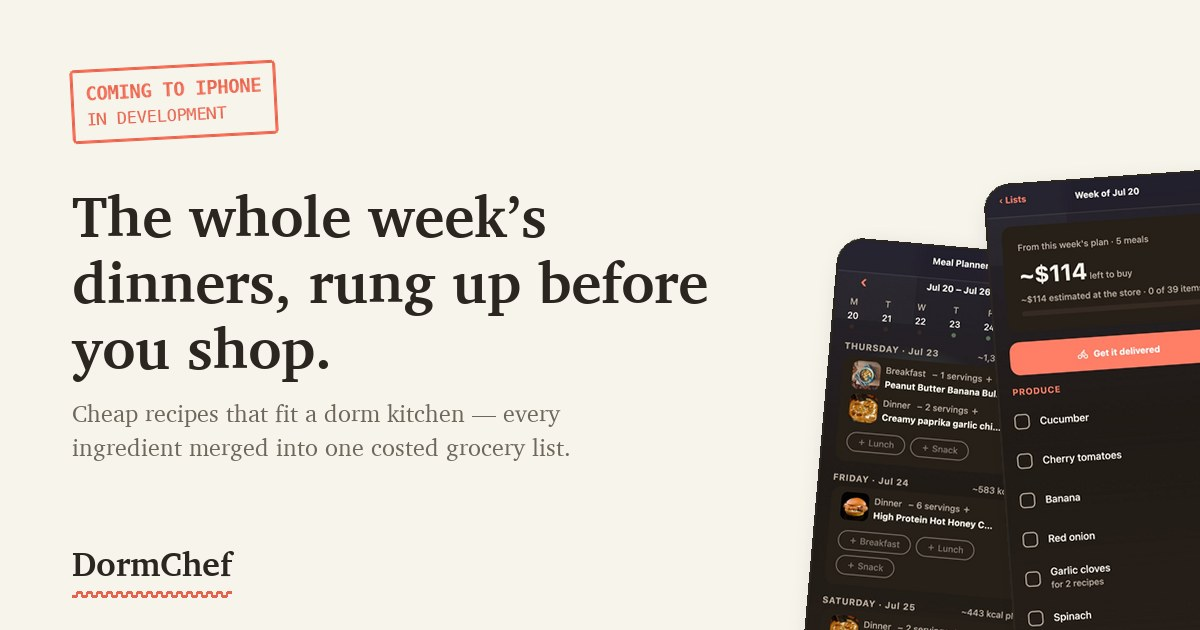
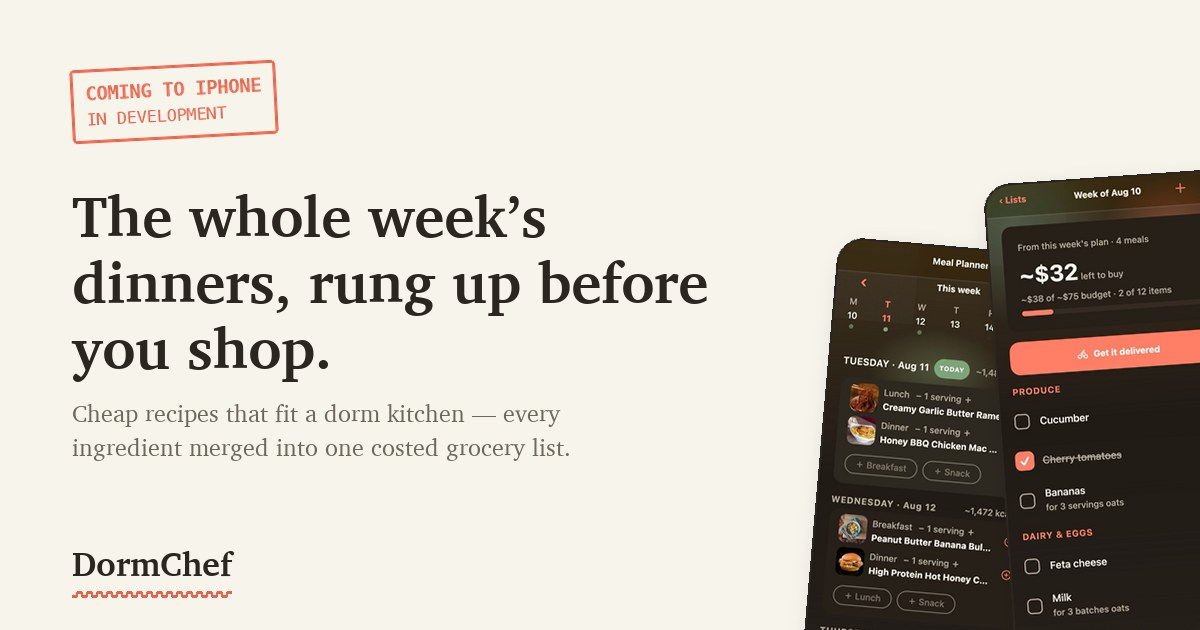
type

Changed region(s): [[0.6783, 0.5127, 0.925, 1.0], [0.6783, 0.2714, 1.0, 0.5127], [0.7092, 0.4825, 0.7708, 0.5127]]

diff --git a/index.html b/index.html
@@ -22,6 +22,60 @@
 
 <link rel="icon" href="favicon.png" />
 <link rel="stylesheet" href="landing.css" />
+
+<!-- Structured data for search + answer engines (HQ-5,
+     docs/base44-audit-2026-08-11.md). Claims mirror the visible page exactly:
+     in development, no dates, no prices — §9 rules apply here too. -->
+<script type="application/ld+json">
+{
+  "@context": "https://schema.org",
+  "@graph": [
+    {
+      "@type": "Organization",
+      "@id": "https://dormchefllc.com/#org",
+      "name": "DormChef LLC",
+      "alternateName": "DormChef",
+      "url": "https://dormchefllc.com/",
+      "logo": "https://dormchefllc.com/favicon.png",
+      "email": "dormchef.app@gmail.com"
+    },
+    {
+      "@type": "WebSite",
+      "@id": "https://dormchefllc.com/#site",
+      "url": "https://dormchefllc.com/",
+      "name": "DormChef",
+      "description": "DormChef is an iPhone app in development for college students: pick cheap, good recipes that fit a dorm kitchen, plan the week, and get one merged, aisle-organized grocery list with an estimated total.",
+      "publisher": { "@id": "https://dormchefllc.com/#org" }
+    },
+    {
+      "@type": "FAQPage",
+      "@id": "https://dormchefllc.com/#faq",
+      "mainEntity": [
+        {
+          "@type": "Question",
+          "name": "What is DormChef?",
+          "acceptedAnswer": { "@type": "Answer", "text": "Cooking usually isn't the hard part — deciding, shopping and paying for it is. DormChef takes that half: pick or import meals you'd actually eat, and it works out what to buy and roughly what it'll cost before you spend anything." }
+        },
+        {
+          "@type": "Question",
+          "name": "Does DormChef work without a real kitchen?",
+          "acceptedAnswer": { "@type": "Answer", "text": "Whatever you've got to cook on. The No-kitchen filter narrows everything to meals a microwave, kettle or rice cooker can handle, so a first-year with one outlet and a housemate with a full stove are both at home here. Vegetarian, vegan, high-protein and under-500-calorie filters run alongside it." }
+        },
+        {
+          "@type": "Question",
+          "name": "How does the grocery list work?",
+          "acceptedAnswer": { "@type": "Answer", "text": "Plan your week and every ingredient is merged across recipes — duplicates combined, grouped by aisle, totalled for the week, estimates marked as estimates. Set a weekly budget and lists aim for it, without ever dropping an ingredient your recipes need." }
+        },
+        {
+          "@type": "Question",
+          "name": "When can I use DormChef?",
+          "acceptedAnswer": { "@type": "Answer", "text": "It's in development. Leave your email at dormchefllc.com and you'll hear as it progresses — the day it ships, you'll know." }
+        }
+      ]
+    }
+  ]
+}
+</script>
 </head>
 <body>
 
@@ -32,22 +86,25 @@
     <a class="brand" href="index.html">DormChef</a>
     <nav class="mast-links" aria-label="Site">
       <a href="#screens">The screens</a>
-      <a href="#updates">Updates</a>
+      <a href="#questions">Questions</a>
+      <a href="#updates">Keep me posted</a>
     </nav>
   </header>
 
   <!-- ================= 1. Hero ================= -->
   <section class="hero">
+   <div class="hero-copy">
     <p class="stamp">
       <span class="stamp-top">Coming to iPhone</span>
       <span class="stamp-sub">in development</span>
     </p>
     <h1>The whole week&rsquo;s dinners, rung up before you shop.</h1>
+    <!-- The lede promises; it no longer explains. The mechanism (merging,
+         aisles, totals) lives once, in the FAQ, and the screens show it. -->
     <p class="lede">
-      DormChef is an iPhone app for college students. Pick cheap, good recipes that fit
-      a dorm kitchen, drop them onto your week, and it merges every ingredient into one
-      grocery list — duplicates combined, grouped for the store, totalled for the week.
-      <a href="#screens">See the real screens below.</a>
+      DormChef is an iPhone app for college students cooking on a microwave, a kettle
+      or a rice cooker. Pick the week&rsquo;s dinners; the shopping sorts itself out
+      before you get to the store. <a href="#screens">See the real screens below.</a>
     </p>
 
     <form class="signup" id="signup-hero" novalidate>
@@ -61,15 +118,26 @@
       <p class="signup-msg" role="status" aria-live="polite"></p>
       <p class="signup-note">Occasional progress updates and word when it&rsquo;s out. Nothing else, ever.</p>
     </form>
+   </div>
+
+    <!-- One real screen, not a mockup: the shot that proves the headline.
+         Dropped below 860px — the filmstrip shows it again a moment later,
+         and the signup matters more than a picture on a phone. -->
+    <figure class="hero-shot">
+      <img src="shots/grocery.jpg" onerror="this.closest('.hero-shot').remove()"
+           alt="A DormChef grocery list for a week of meals: ingredients merged across recipes, grouped by aisle, with an estimated total." />
+      <figcaption>One week of dinners, totalled before the store</figcaption>
+    </figure>
   </section>
 
   <!-- ================= 2. The screens ================= -->
   <section class="section" id="screens">
     <p class="overline">From the app</p>
     <h2>The screens</h2>
+    <!-- The subhead used to enumerate the four screens the captions already
+         name, one line below. The captions won that argument. -->
     <p class="sub">
-      Screenshots of the current build — the same four screens you&rsquo;d use in a week:
-      find a meal, put it on a night, shop the merged list, cook it.
+      The screens you&rsquo;d actually touch in a week.
     </p>
 
     <div class="filmstrip">
@@ -86,33 +154,79 @@
         <figcaption>Plan the nights you&rsquo;ll cook</figcaption>
       </figure>
       <figure class="frame">
-        <img src="shots/grocery.jpg" loading="lazy" onerror="this.closest('.frame').classList.add('missing')"
-             alt="A DormChef grocery list with ingredients merged across meals and grouped for the store." />
-        <div class="index-card" aria-hidden="true"><strong>Grocery</strong><span>the merged, costed list</span></div>
-        <figcaption>Shop from one merged list</figcaption>
-      </figure>
-      <figure class="frame">
         <img src="shots/recipe.jpg" loading="lazy" onerror="this.closest('.frame').classList.add('missing')"
              alt="A DormChef recipe screen showing ingredients, steps, calories and cost per serving." />
         <div class="index-card" aria-hidden="true"><strong>Recipe</strong><span>steps, scaling, macros</span></div>
-        <figcaption>Cook it, then log it</figcaption>
+        <figcaption>Cook it, step by step</figcaption>
+      </figure>
+      <figure class="frame">
+        <img src="shots/dashboard.jpg" loading="lazy" onerror="this.closest('.frame').classList.add('missing')"
+             alt="The DormChef dashboard: calories logged against the day's goal, this week's meals, and the current grocery list." />
+        <div class="index-card" aria-hidden="true"><strong>Today</strong><span>calories against your goal</span></div>
+        <figcaption>Watch the day&rsquo;s calories add up</figcaption>
+      </figure>
+      <figure class="frame">
+        <img src="shots/profile.jpg" loading="lazy" onerror="this.closest('.frame').classList.add('missing')"
+             alt="A DormChef profile: a student's own meals, each with its calories and cost per serving, and their follower counts." />
+        <div class="index-card" aria-hidden="true"><strong>Profile</strong><span>the meals you post</span></div>
+        <figcaption>Share what you cook</figcaption>
       </figure>
     </div>
+    <!-- No promises about the finished app: we can't guarantee what ships
+         looks like this, so the caveat only describes what these images are. -->
     <p class="fine">
-      Screenshots of a development build — what you see here is what the app does today,
-      and it will keep changing before release.
+      Screenshots from a development build. DormChef is still being built, so the
+      finished app may differ from what you see here.
     </p>
   </section>
 
-  <!-- ================= 3. The closing signup ================= -->
+  <!-- ================= 3. The fine print ================= -->
+  <!-- Four questions, §9-checked: shipped features only, no dates, no prices.
+       Mirrored in the FAQPage JSON-LD in <head> — edit both or neither. -->
+  <section class="section faq" id="questions">
+    <p class="overline">Straight answers</p>
+    <h2>The fine print</h2>
+    <dl class="faq-list">
+      <div class="faq-item">
+        <dt>What is DormChef?</dt>
+        <dd>Cooking usually isn&rsquo;t the hard part — deciding, shopping and paying
+        for it is. DormChef takes that half: pick or import meals you&rsquo;d actually
+        eat, and it works out what to buy and roughly what it&rsquo;ll cost before you
+        spend anything.</dd>
+      </div>
+      <div class="faq-item">
+        <dt>Does it work without a real kitchen?</dt>
+        <dd>Whatever you&rsquo;ve got to cook on. The No-kitchen filter narrows
+        everything to meals a microwave, kettle or rice cooker can handle, so a
+        first-year with one outlet and a housemate with a full stove are both at home
+        here. Vegetarian, vegan, high-protein and under-500-calorie filters run
+        alongside it.</dd>
+      </div>
+      <div class="faq-item">
+        <dt>How does the grocery list work?</dt>
+        <dd>Plan your week and every ingredient is merged across recipes —
+        duplicates combined, grouped by aisle, totalled for the week, estimates
+        marked as estimates. Set a weekly budget and lists aim for it, without
+        ever dropping an ingredient your recipes need.</dd>
+      </div>
+      <div class="faq-item">
+        <dt>When can I use it?</dt>
+        <dd>It&rsquo;s in development. Leave your email and you&rsquo;ll hear as it
+        progresses — the day it ships, you&rsquo;ll know.</dd>
+      </div>
+    </dl>
+  </section>
+
+  <!-- ================= 4. The closing signup ================= -->
   <section class="coupon" id="updates">
     <svg class="scissors" width="22" height="22" viewBox="0 0 24 24" fill="none" stroke="currentColor" stroke-width="1.6" stroke-linecap="round" stroke-linejoin="round" aria-hidden="true"><circle cx="6" cy="6" r="2.6" /><circle cx="6" cy="18" r="2.6" /><path d="M8.2 7.6 20 19M8.2 16.4 20 5" /></svg>
     <p class="overline">Clip and keep</p>
     <h2>Hear when it&rsquo;s ready</h2>
+    <!-- Second signup: gives a reason the hero's didn't — what the emails
+         actually contain — rather than restating that it's being built. -->
     <p class="coupon-sub">
-      DormChef is still being built. Leave an email and you&rsquo;ll get the occasional
-      progress update and word the day it&rsquo;s published — no dates promised until
-      there are dates to promise.
+      Progress, not marketing: what shipped, what broke, what&rsquo;s next — and word
+      the day it&rsquo;s published. No dates promised until there are dates to promise.
     </p>
     <form class="signup signup--center" id="signup-coupon" novalidate>
       <div class="signup-row">
@@ -154,6 +268,19 @@
   var SUPABASE_URL = 'https://qnarhtydsvxafdrmjqil.supabase.co';
   var SUPABASE_KEY = 'sb_publishable_UhtJIjMTsegrgHNaUKYcRg_e-FV60cd';
 
+  /* Where did this signup come from? A `?s=` on the URL names the source —
+     ig-bio, ig-story, ig-dm (docs/instagram-strategy-2026-08-03.md §7) — so
+     Instagram signups stop being indistinguishable from everything else.
+     Strict shape (lowercase/digits/hyphens, ≤40 to match the column's CHECK),
+     anything else falls back to 'landing'. This is data hygiene, not
+     security: the RPC is public and always could be called with any string —
+     the allowlist just keeps the sources *we* mint groupable. */
+  var source = 'landing';
+  try {
+    var s = new URLSearchParams(location.search).get('s');
+    if (s && /^[a-z0-9-]{1,40}$/.test(s)) source = s;
+  } catch (err) { /* very old browser: keep 'landing' */ }
+
   function wire(form) {
     if (!form) return;
     var email = form.querySelector('input[type="email"]');
@@ -184,7 +311,7 @@
       fetch(SUPABASE_URL + '/rest/v1/rpc/join_waitlist', {
         method: 'POST',
         headers: { 'apikey': SUPABASE_KEY, 'Content-Type': 'application/json' },
-        body: JSON.stringify({ p_email: value, p_source: 'landing' })
+        body: JSON.stringify({ p_email: value, p_source: source })
       }).then(function (res) {
         if (res.ok) {
           form.reset();

diff --git a/landing.css b/landing.css
@@ -87,10 +87,41 @@ a:focus-visible, button:focus-visible, input:focus-visible, summary:focus-visibl
 .mast-links a:hover { color: var(--accent); }
 
 /* ---------------- Hero ---------------- */
-/* Single column: the hero is copy + signup, no visual. With the receipt gone
-   the headline itself has to carry the space, so it runs big and full-width
-   like a front page rather than sitting in a centered template block. */
+/* Two columns from 861px: copy + signup left, one real screen right. This
+   reverses the earlier single-column call — with no visual the right half of
+   a 1080px shell simply sat empty, on a page whose strongest asset is real
+   screenshots. The shot now carries that space, so the headline no longer has
+   to run to 86px to fill it. Below 860px the shot is dropped rather than
+   stacked: the filmstrip shows the same screen a moment later, and on a phone
+   keeping the signup near the top beats a picture. */
 .hero { padding: 68px 0 28px; }
+.hero-shot { margin: 0; }
+.hero-shot img {
+  display: block;
+  width: 100%;
+  max-width: 296px;
+  margin: 0 auto;
+  aspect-ratio: 375 / 812;
+  object-fit: cover;
+  border: 1.5px solid var(--rule);
+  border-radius: 22px;
+  background: var(--card);
+  box-shadow: 0 30px 60px -42px rgba(20, 15, 8, 0.8);
+}
+.hero-shot figcaption {
+  font: 12px/1.5 var(--mono);
+  color: var(--muted);
+  text-align: center;
+  margin-top: 12px;
+}
+@media (min-width: 861px) {
+  .hero {
+    display: grid;
+    grid-template-columns: minmax(0, 1.1fr) minmax(0, 0.9fr);
+    gap: 54px;
+    align-items: center;
+  }
+}
 .hero h1 {
   font: 700 clamp(36px, 7.2vw, 86px)/1.02 var(--serif);
   letter-spacing: -0.025em;
@@ -98,6 +129,14 @@ a:focus-visible, button:focus-visible, input:focus-visible, summary:focus-visibl
   max-width: 20ch;
 }
 .lede { font-size: 17.5px; color: var(--muted); max-width: 52ch; margin: 0 0 30px; }
+
+/* Must sit AFTER the `font:` shorthand above — same specificity, so source
+   order decides. In two columns the headline has ~540px, not the full shell;
+   86px would leave "The" alone on a line. Single-column sizes are untouched. */
+@media (min-width: 861px) {
+  .hero h1 { font-size: clamp(38px, 4.4vw, 60px); }
+  .hero .lede { max-width: 44ch; }
+}
 
 /* The rubber stamp */
 .stamp {
@@ -175,9 +214,30 @@ a:focus-visible, button:focus-visible, input:focus-visible, summary:focus-visibl
 .sub { color: var(--muted); margin: 0 0 34px; max-width: 58ch; }
 .fine { font: 12.5px/1.6 var(--mono); color: var(--muted); max-width: 62ch; }
 
+/* ---------------- The fine print (FAQ) ---------------- */
+.faq-list {
+  margin: 0;
+  display: grid;
+  grid-template-columns: repeat(2, minmax(0, 1fr));
+  gap: 0 44px;
+}
+.faq-item { border-top: 1px solid var(--rule); padding: 18px 0 22px; }
+.faq-item dt { font-weight: 700; margin-bottom: 8px; }
+.faq-item dd { margin: 0; font-size: 14.5px; line-height: 1.65; color: var(--muted); }
+
 /* ---------------- Filmstrip / screenshots ---------------- */
-.filmstrip { display: grid; grid-template-columns: repeat(4, minmax(0, 1fr)); gap: 22px; }
-.frame { margin: 0; }
+/* Five across at 1080px is ~190px a card — legible for a phone screen, and the
+   sequence is worth more than a little size. Three-up is the middle step so
+   the cards never shrink below that on tablets. */
+.filmstrip { display: grid; grid-template-columns: repeat(5, minmax(0, 1fr)); gap: 16px; counter-reset: shot; }
+.frame { margin: 0; counter-increment: shot; }
+/* Mono numerals — the house rule is that anything with numbers is mono. They
+   also make the strip read as a sequence (a week) rather than four options. */
+.frame figcaption::before {
+  content: counter(shot, decimal-leading-zero) " · ";
+  color: var(--accent);
+  font-weight: 700;
+}
 .frame img {
   display: block;
   width: 100%;
@@ -253,10 +313,13 @@ a:focus-visible, button:focus-visible, input:focus-visible, summary:focus-visibl
 /* ---------------- Small screens ---------------- */
 @media (max-width: 860px) {
   .hero { padding: 44px 0 48px; }
-  .filmstrip { grid-template-columns: repeat(2, minmax(0, 1fr)); }
+  .hero-shot { display: none; }
+  .filmstrip { grid-template-columns: repeat(3, minmax(0, 1fr)); }
   .section { margin-top: 72px; }
+  .faq-list { grid-template-columns: 1fr; }
 }
 @media (max-width: 620px) {
+  .filmstrip { grid-template-columns: repeat(2, minmax(0, 1fr)); }
   .signup-row .btn { flex: 1 1 100%; }
   .coupon { padding: 40px 20px 34px; margin-top: 80px; }
   .mast-links a { margin-left: 12px; font-size: 14px; }
